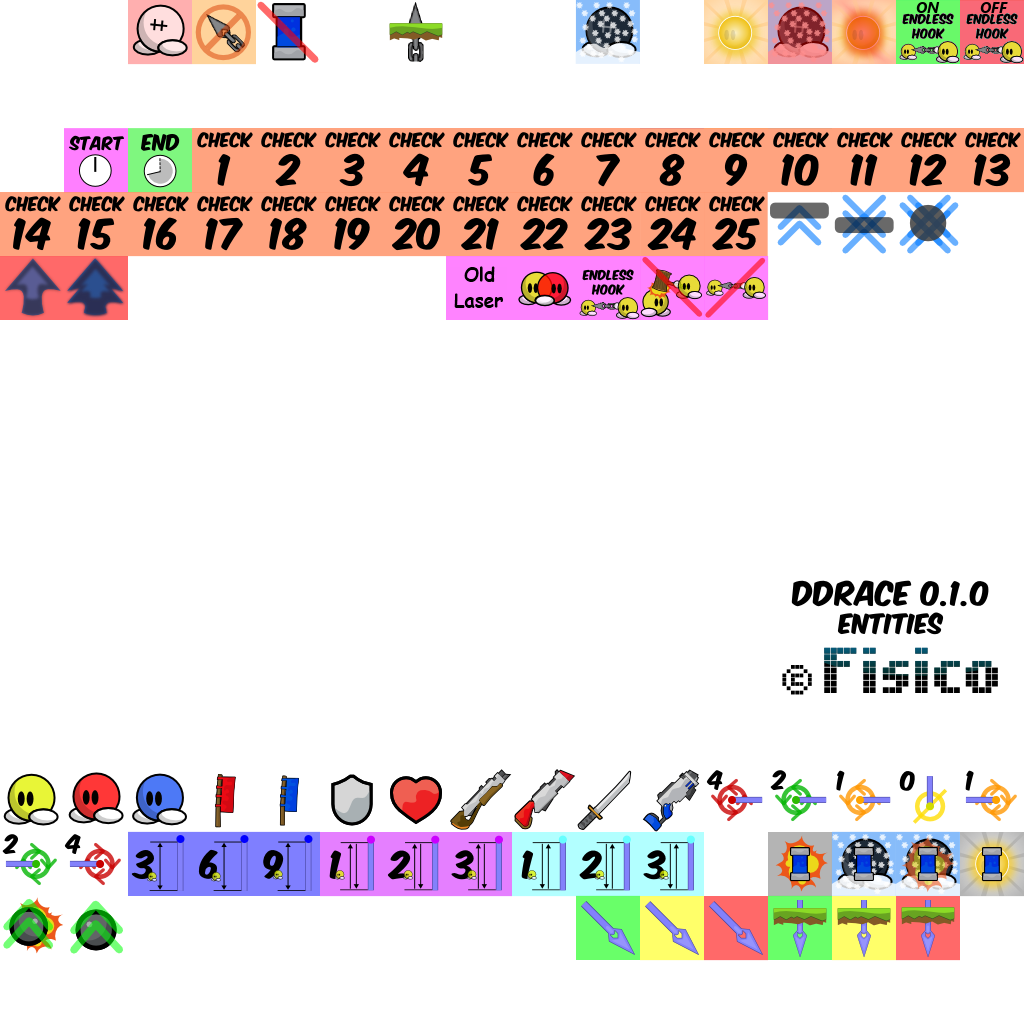
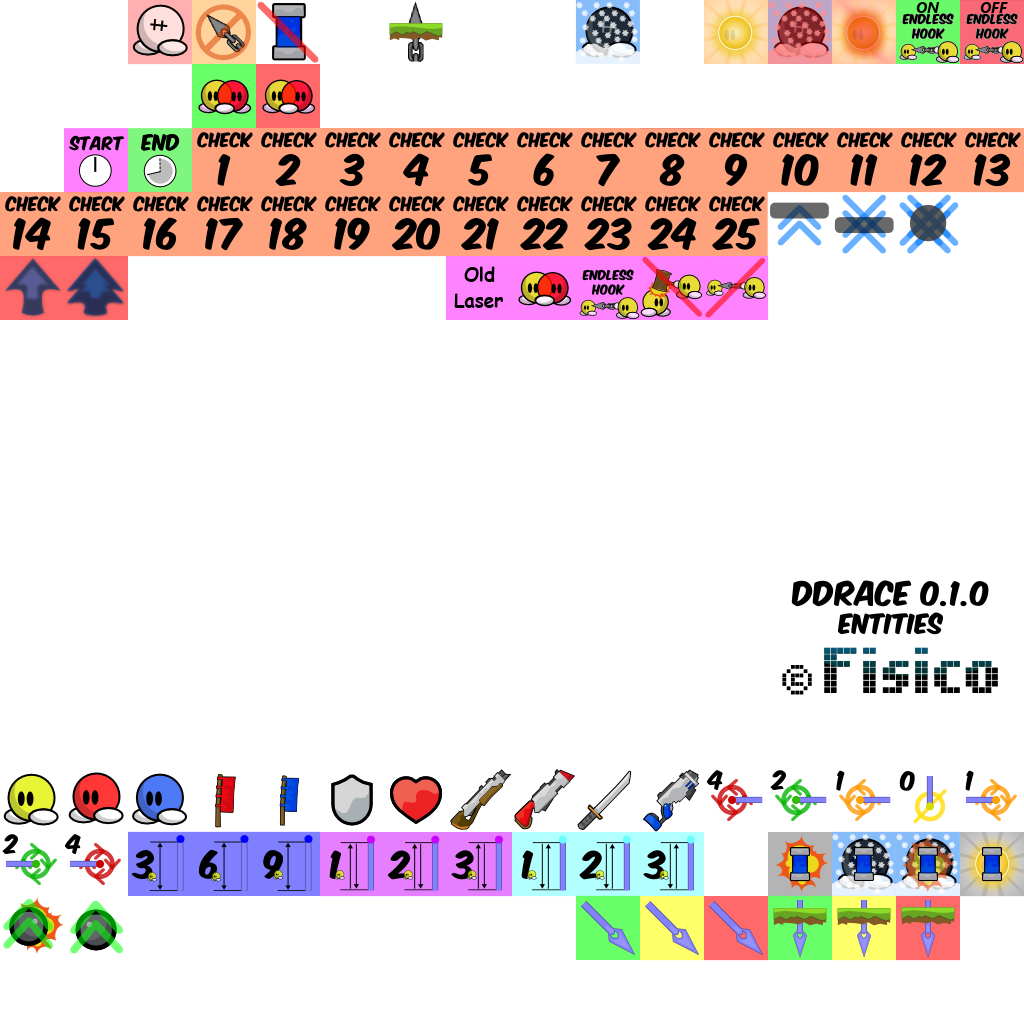
test

Changed region(s): [[0.1875, 0.0625, 0.3125, 0.125]]

diff --git a/src/game/collision.cpp b/src/game/collision.cpp
@@ -119,7 +119,7 @@ void CCollision::Init(class CLayers *pLayers)
 				}
 
 				// DDRace tiles
-				if(Index == TILE_THROUGH || (Index >= TILE_FREEZE && Index <= TILE_DEEPUNFREEZE) || (Index >= TILE_SWITCHOPEN && Index<=TILE_BOOST) || (Index >= TILE_BEGIN && Index <= TILE_STOPA) || Index == TILE_CP || Index == TILE_CP_F || (Index >= TILE_OLDLASER && Index <= TILE_NPH) || (Index >= TILE_EHOOK_START && Index <= TILE_EHOOK_END))
+				if(Index == TILE_THROUGH || (Index >= TILE_FREEZE && Index <= TILE_DEEPUNFREEZE) || (Index >= TILE_SWITCHOPEN && Index<=TILE_BOOST) || (Index >= TILE_BEGIN && Index <= TILE_STOPA) || Index == TILE_CP || Index == TILE_CP_F || (Index >= TILE_OLDLASER && Index <= TILE_NPH) || (Index >= TILE_EHOOK_START && Index <= TILE_EHOOK_END) || (Index >= TILE_SOLOON && Index <= TILE_SOLOON))
 					m_pFront[i].m_Index = Index;
 			}
 		}
@@ -145,7 +145,7 @@ void CCollision::Init(class CLayers *pLayers)
 			}
 
 			// DDRace tiles
-			if(Index == TILE_THROUGH || (Index >= TILE_FREEZE && Index <= TILE_DEEPUNFREEZE) || (Index >= TILE_SWITCHOPEN && Index<=TILE_BOOST) || (Index >= TILE_BEGIN && Index <= TILE_STOPA) || Index == TILE_CP || Index == TILE_CP_F || (Index >= TILE_OLDLASER && Index <= TILE_NPH) || (Index >= TILE_EHOOK_START && Index <= TILE_EHOOK_END))
+			if(Index == TILE_THROUGH || (Index >= TILE_FREEZE && Index <= TILE_DEEPUNFREEZE) || (Index >= TILE_SWITCHOPEN && Index<=TILE_BOOST) || (Index >= TILE_BEGIN && Index <= TILE_STOPA) || Index == TILE_CP || Index == TILE_CP_F || (Index >= TILE_OLDLASER && Index <= TILE_NPH) || (Index >= TILE_EHOOK_START && Index <= TILE_EHOOK_END) || (Index >= TILE_SOLOOFF && Index <= TILE_SOLOOFF))
 				m_pTiles[i].m_Index = Index;
 		}
 	}

diff --git a/src/game/server/entities/character.cpp b/src/game/server/entities/character.cpp
@@ -1029,6 +1029,16 @@ void CCharacter::HandleTiles(int Index)
 		GameServer()->SendChatTarget(GetPlayer()->GetCID(),"Endless hook has been deactivated");
 	m_EndlessHook = false;
 }
+	else if(((m_TileIndex == TILE_SOLOON) || m_TileFIndex == TILE_SOLOON) && !m_Solo)
+		{
+			GameServer()->SendChatTarget(GetPlayer()->GetCID(),"Solo Mode activated!");
+			m_Solo = true;
+		}
+	else if(((m_TileIndex == TILE_SOLOOFF) || m_TileFIndex == TILE_SOLOOFF) && m_Solo)
+		{
+			GameServer()->SendChatTarget(GetPlayer()->GetCID(),"Solo Mode deactivated!");
+			m_Solo = false;
+		}
 	if(((m_TileIndex == TILE_STOP && m_TileFlags == ROTATION_270) || (m_TileIndexL == TILE_STOP && m_TileFlagsL == ROTATION_270) || (m_TileIndexL == TILE_STOPS && (m_TileFlagsL == ROTATION_90 || m_TileFlagsL ==ROTATION_270)) || (m_TileIndexL == TILE_STOPA) || (m_TileFIndex == TILE_STOP && m_TileFFlags == ROTATION_270) || (m_TileFIndexL == TILE_STOP && m_TileFFlagsL == ROTATION_270) || (m_TileFIndexL == TILE_STOPS && (m_TileFFlagsL == ROTATION_90 || m_TileFFlagsL == ROTATION_270)) || (m_TileFIndexL == TILE_STOPA) || (m_TileSIndex == TILE_STOP && m_TileSFlags == ROTATION_270) || (m_TileSIndexL == TILE_STOP && m_TileSFlagsL == ROTATION_270) || (m_TileSIndexL == TILE_STOPS && (m_TileSFlagsL == ROTATION_90 || m_TileSFlagsL == ROTATION_270)) || (m_TileSIndexL == TILE_STOPA)) && m_Core.m_Vel.x > 0)
 	{
 		if((int)GameServer()->Collision()->GetPos(MapIndexL).x)

diff --git a/src/game/server/player.cpp b/src/game/server/player.cpp
@@ -285,6 +285,7 @@ void CPlayer::LoadCharacter()
 	Character->m_HammerType = m_PauseInfo.m_HammerType;
 	Character->m_Super = m_PauseInfo.m_Super;
 	Character->m_EndlessHook = m_PauseInfo.m_EndlessHook;
+	Character->m_Solo = m_PauseInfo.m_Solo;
 	Character->m_DeepFreeze = m_PauseInfo.m_DeepFreeze;
 	CGameControllerDDRace* Controller = (CGameControllerDDRace*)GameServer()->m_pController;
 	Controller->m_Teams.m_Core.Team(GetCID(), m_PauseInfo.m_Team);
@@ -317,6 +318,7 @@ void CPlayer::SaveCharacter()
 	m_PauseInfo.m_HammerType = Character->m_HammerType;
 	m_PauseInfo.m_Super = Character->m_Super;
 	m_PauseInfo.m_EndlessHook = Character->m_EndlessHook;
+	m_PauseInfo.m_Solo = Character->m_EndlessHook;
 	m_PauseInfo.m_DeepFreeze = Character->m_DeepFreeze;
 	CGameControllerDDRace* Controller = (CGameControllerDDRace*)GameServer()->m_pController;
 	m_PauseInfo.m_Team = Controller->m_Teams.m_Core.Team(GetCID());

diff --git a/src/game/server/gamecontext.cpp b/src/game/server/gamecontext.cpp
@@ -1464,22 +1464,22 @@ void CGameContext::OnInit(/*class IKernel *pKernel*/)
 				g_Config.m_SvOldLaser = 1;
 				dbg_msg("MapTile","Old Laser");
 			}
-			else if(Index == TILE_NPC)
+			else if(Index == TILE_NPC || m_Solo)
 			{
 				m_Tuning.Set("player_collision",0);
 				dbg_msg("MapTile","No Collision");
 			}
-			else if(Index == TILE_EHOOK)
+			else if(Index == TILE_EHOOK || m_Solo)
 			{
 				g_Config.m_SvEndlessDrag = 1;
 				dbg_msg("MapTile","Unlimited hook time");
 			}
-			else if(Index == TILE_NOHIT)
+			else if(Index == TILE_NOHIT || m_Solo)
 			{
 				g_Config.m_SvHit = 0;
 				dbg_msg("MapTile","No Weapons Hitting others");
 			}
-			else if(Index == TILE_NPH)
+			else if(Index == TILE_NPH || m_Solo)
 			{
 				m_Tuning.Set("player_hooking",0);
 				dbg_msg("MapTile","No Player Hooking");

diff --git a/src/game/mapitems.h b/src/game/mapitems.h
@@ -94,6 +94,8 @@ enum
 	TILE_DEEPUNFREEZE,
 	TILE_EHOOK_START,
 	TILE_EHOOK_END,
+	TILE_SOLOON = 19,
+	TILE_SOLOOFF,
 	//Switches
 	TILE_SWITCHTIMEDOPEN = 22,
 	TILE_SWITCHTIMEDCLOSE,

diff --git a/src/game/server/gamecontext.h b/src/game/server/gamecontext.h
@@ -162,6 +162,7 @@ public:
 	void AbortVoteKickOnDisconnect(int ClientId);
 	
 	bool m_VoteKick;
+	bool m_Solo;
 	int m_VoteCreator;
 	int64 m_VoteCloseTime;
 	bool m_VoteUpdate;

diff --git a/src/game/server/player.h b/src/game/server/player.h
@@ -59,6 +59,7 @@ public:
 		bool m_Super;
 		bool m_DeepFreeze;
 		bool m_EndlessHook;
+		bool m_Solo;
 		int m_PauseTime;
 		int m_Team;
 	} m_PauseInfo;

diff --git a/src/game/server/entities/character.h b/src/game/server/entities/character.h
@@ -126,6 +126,7 @@ public:
 	int lastup;
 	int m_Doored;
 	bool m_EndlessHook;
+	bool m_Solo;
 
 	vec2 m_OldPos;
 	vec2 m_OlderPos;
